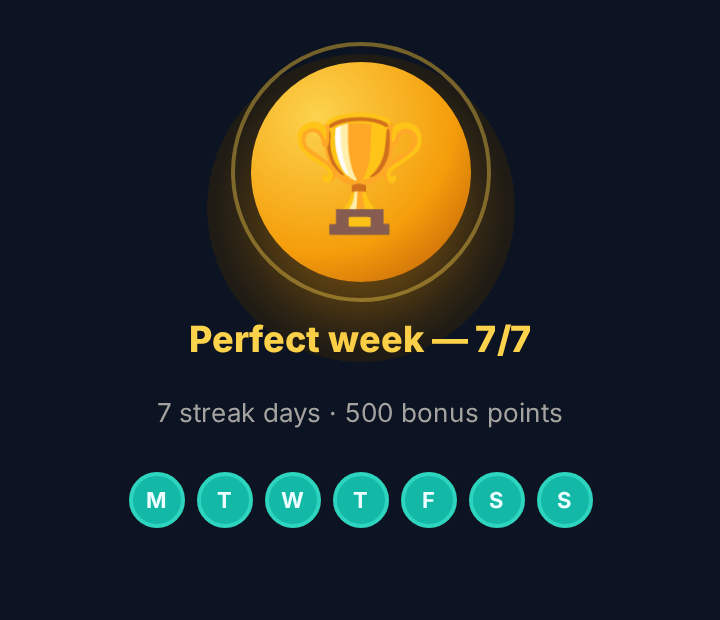
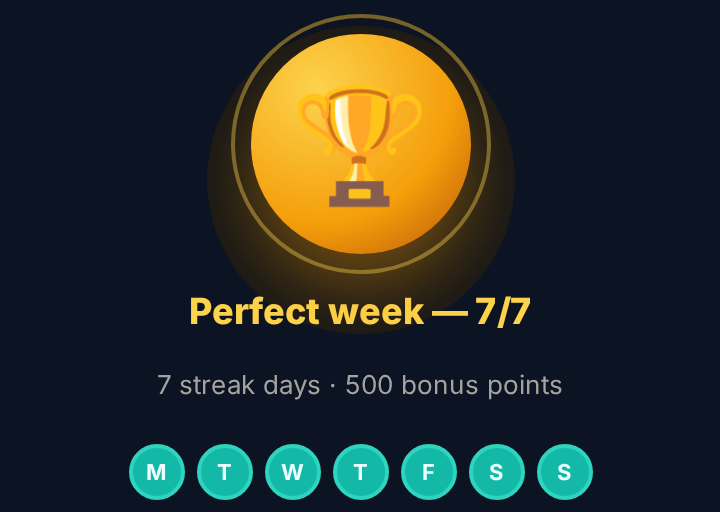
fix(TYC-157): reattach trophy caption + move phone caption below screens (clear spacing)

diff --git a/marketing/pilot-flyer.html b/marketing/pilot-flyer.html
@@ -109,7 +109,7 @@
   .step.two .tag{ background:var(--orange); color:#fff; }
 
   /* ---------- 6 · proof ---------- */
-  .proof{ position:relative; height:1.54in; margin:11px 0 0; }
+  .proof{ position:relative; height:1.74in; flex-shrink:0; margin:11px 0 0; }
   .phone{
     position:absolute; border-radius:15px; overflow:hidden; background:transparent;
     box-shadow:0 12px 26px rgba(0,0,0,.38), 0 0 22px rgba(20,184,166,.10);
@@ -117,10 +117,10 @@
   .phone img{ display:block; width:100%; height:100%; object-fit:cover; object-position:top; }
   .phone.p1{ width:0.76in; height:1.46in; left:0.14in; top:0.03in; transform:rotate(-6deg); z-index:2; }
   .phone.p2{ width:0.76in; height:1.46in; left:1.00in; top:0.00in; transform:rotate(4deg); z-index:1; }
-  .pcap{ position:absolute; left:0; top:1.40in; width:1.9in; text-align:center;
+  .pcap{ position:absolute; left:0; top:1.58in; width:1.9in; text-align:center;
     font-size:9.5px; font-weight:700; color:var(--text-2); }
   .trophy{
-    position:absolute; right:0; top:0; width:1.6in;
+    position:absolute; right:0; top:50%; transform:translateY(-50%); width:1.6in;
   }
   .trophy img{ display:block; width:100%; border-radius:15px;
     box-shadow:0 12px 26px rgba(0,0,0,.38), 0 0 22px rgba(20,184,166,.10); }
@@ -134,7 +134,7 @@
   .proof .mid .small{ font-size:11px; font-weight:600; color:var(--text-2); margin-top:5px; line-height:1.4; }
 
   /* ---------- 7 · install + join ---------- */
-  .bottom{ display:flex; gap:14px; margin-top:calc(11px + 0.33in); align-items:stretch; }
+  .bottom{ display:flex; gap:14px; margin-top:14px; align-items:stretch; }
   .install{ flex:1.05; }
   .section-h{
     display:flex; align-items:center; gap:9px; margin-bottom:10px;